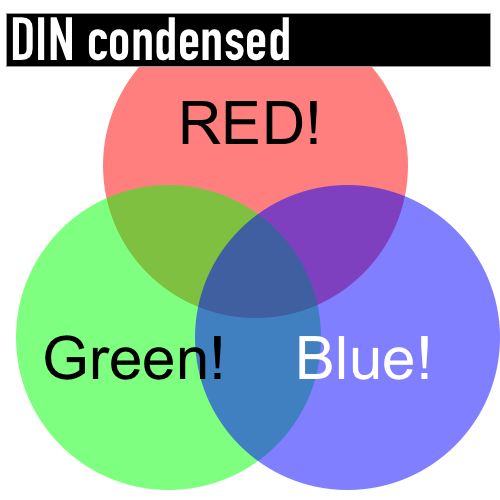
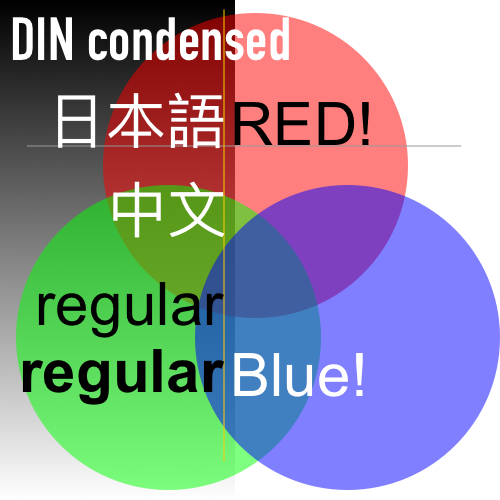
added kanji fonts to svg demo #2

diff --git a/snappy/shots.api.js b/snappy/shots.api.js
@@ -38,7 +38,7 @@ router.get('/shots/test/svg', async (req, res) => {
 
   const render =
     sharp()
-      .resize(250, 250)
+      .resize(500, 500)
       // .composite([{
       //   input: watermark,
       // }])

diff --git a/docs/devnotes.md b/docs/devnotes.md
@@ -1,0 +1,33 @@
+# notes / questions
+
+## dev/restart loop
+I created a `nodemon ..` task to restart when code changes,
+but it doesn't seem to reload/pickup any changes in commands.
+It seems that's deeper in monochrome...
+
+# monochrome 'ejected'
+monochrome is an NPM module. to modify that...
+wondering if you have a setup to just use local monochrome code
+so i don't have to modify the NPM module.
+If i just dump monochrome src into eg `bot/framework/` and require it from there...
+it should work i guess?
+
+## heap dumps
+I think nodemon restarting is causing some kind of heapdump.
+
+# uniqueId
+uniqueId: 'state12345',
+does this have to be unique across all instances?
+why can't we create internally like `bot.id + action`
+
+# testing
+since these are text in/out, very well suited for testing
+wonder if you have a simple test framework somewhere?
+
+## typescript typings
+i like TS! wonder if you have typings so i could get intellisense etc.
+maybe Eris does, but that's not really used here.
+
+## how do I get at the `config` or other bot variables?
+I looked at `bot.config` on the action params but doesn't seem to be there.
+just require the config?
